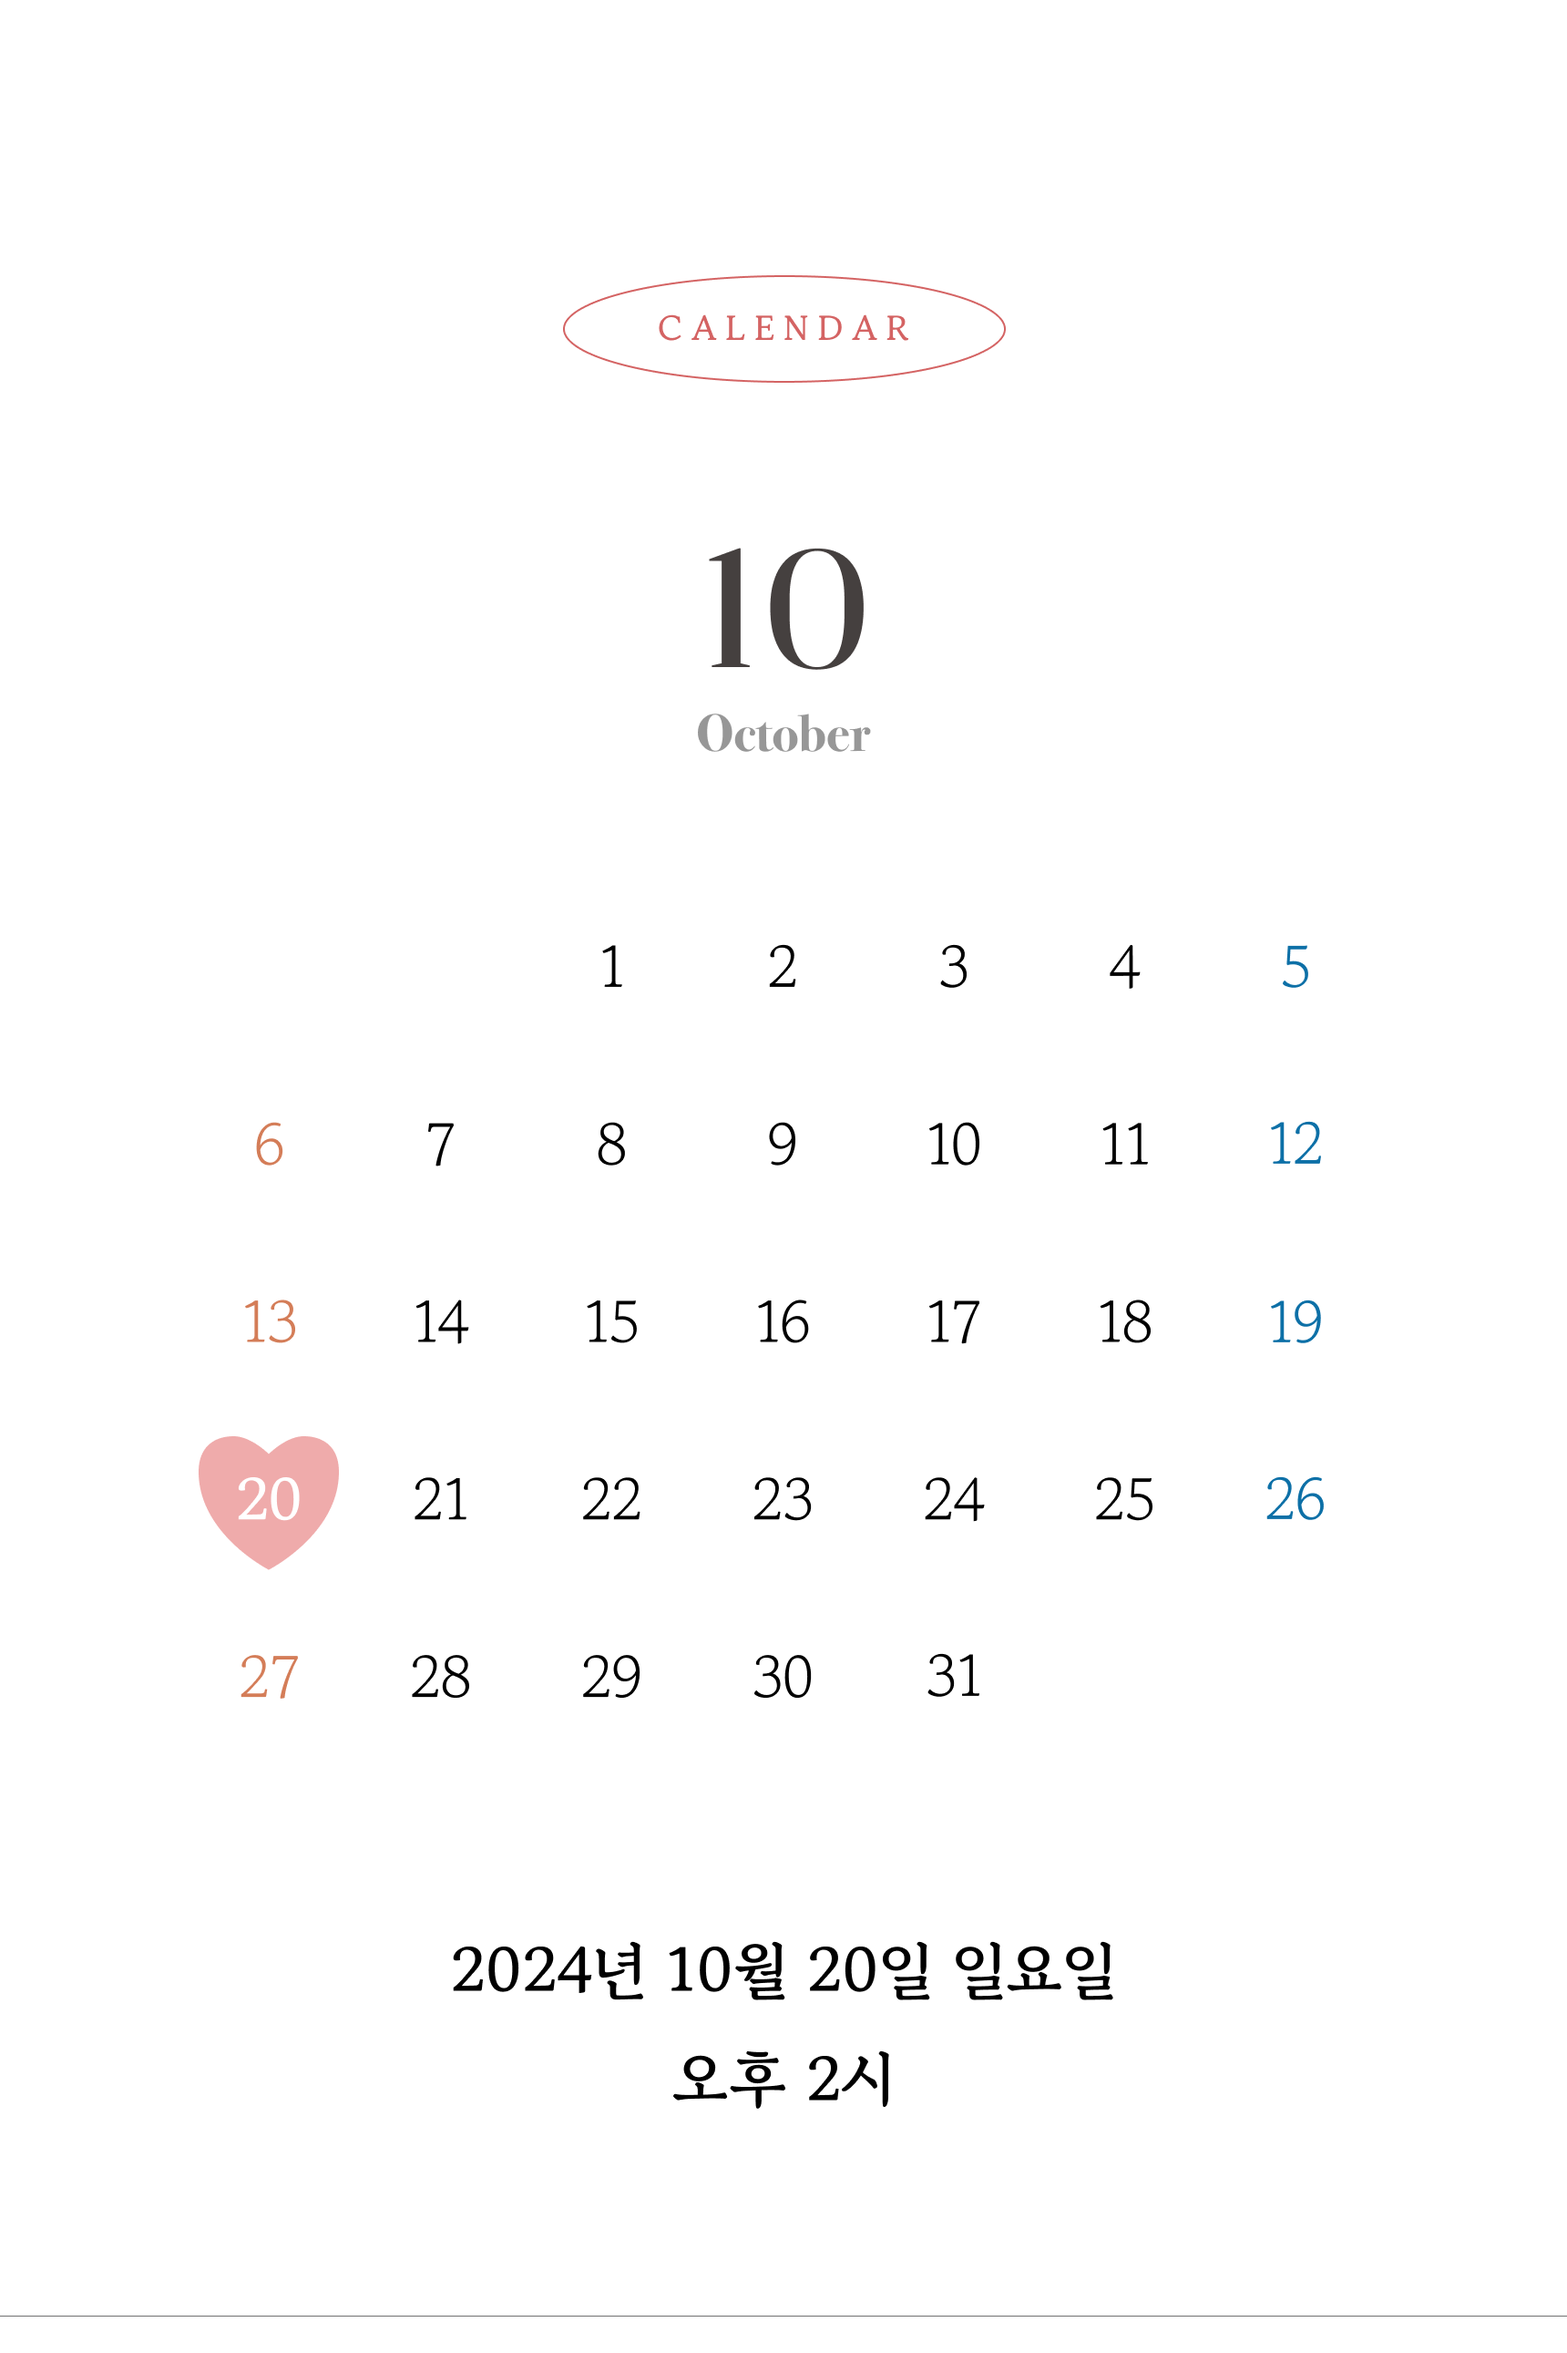
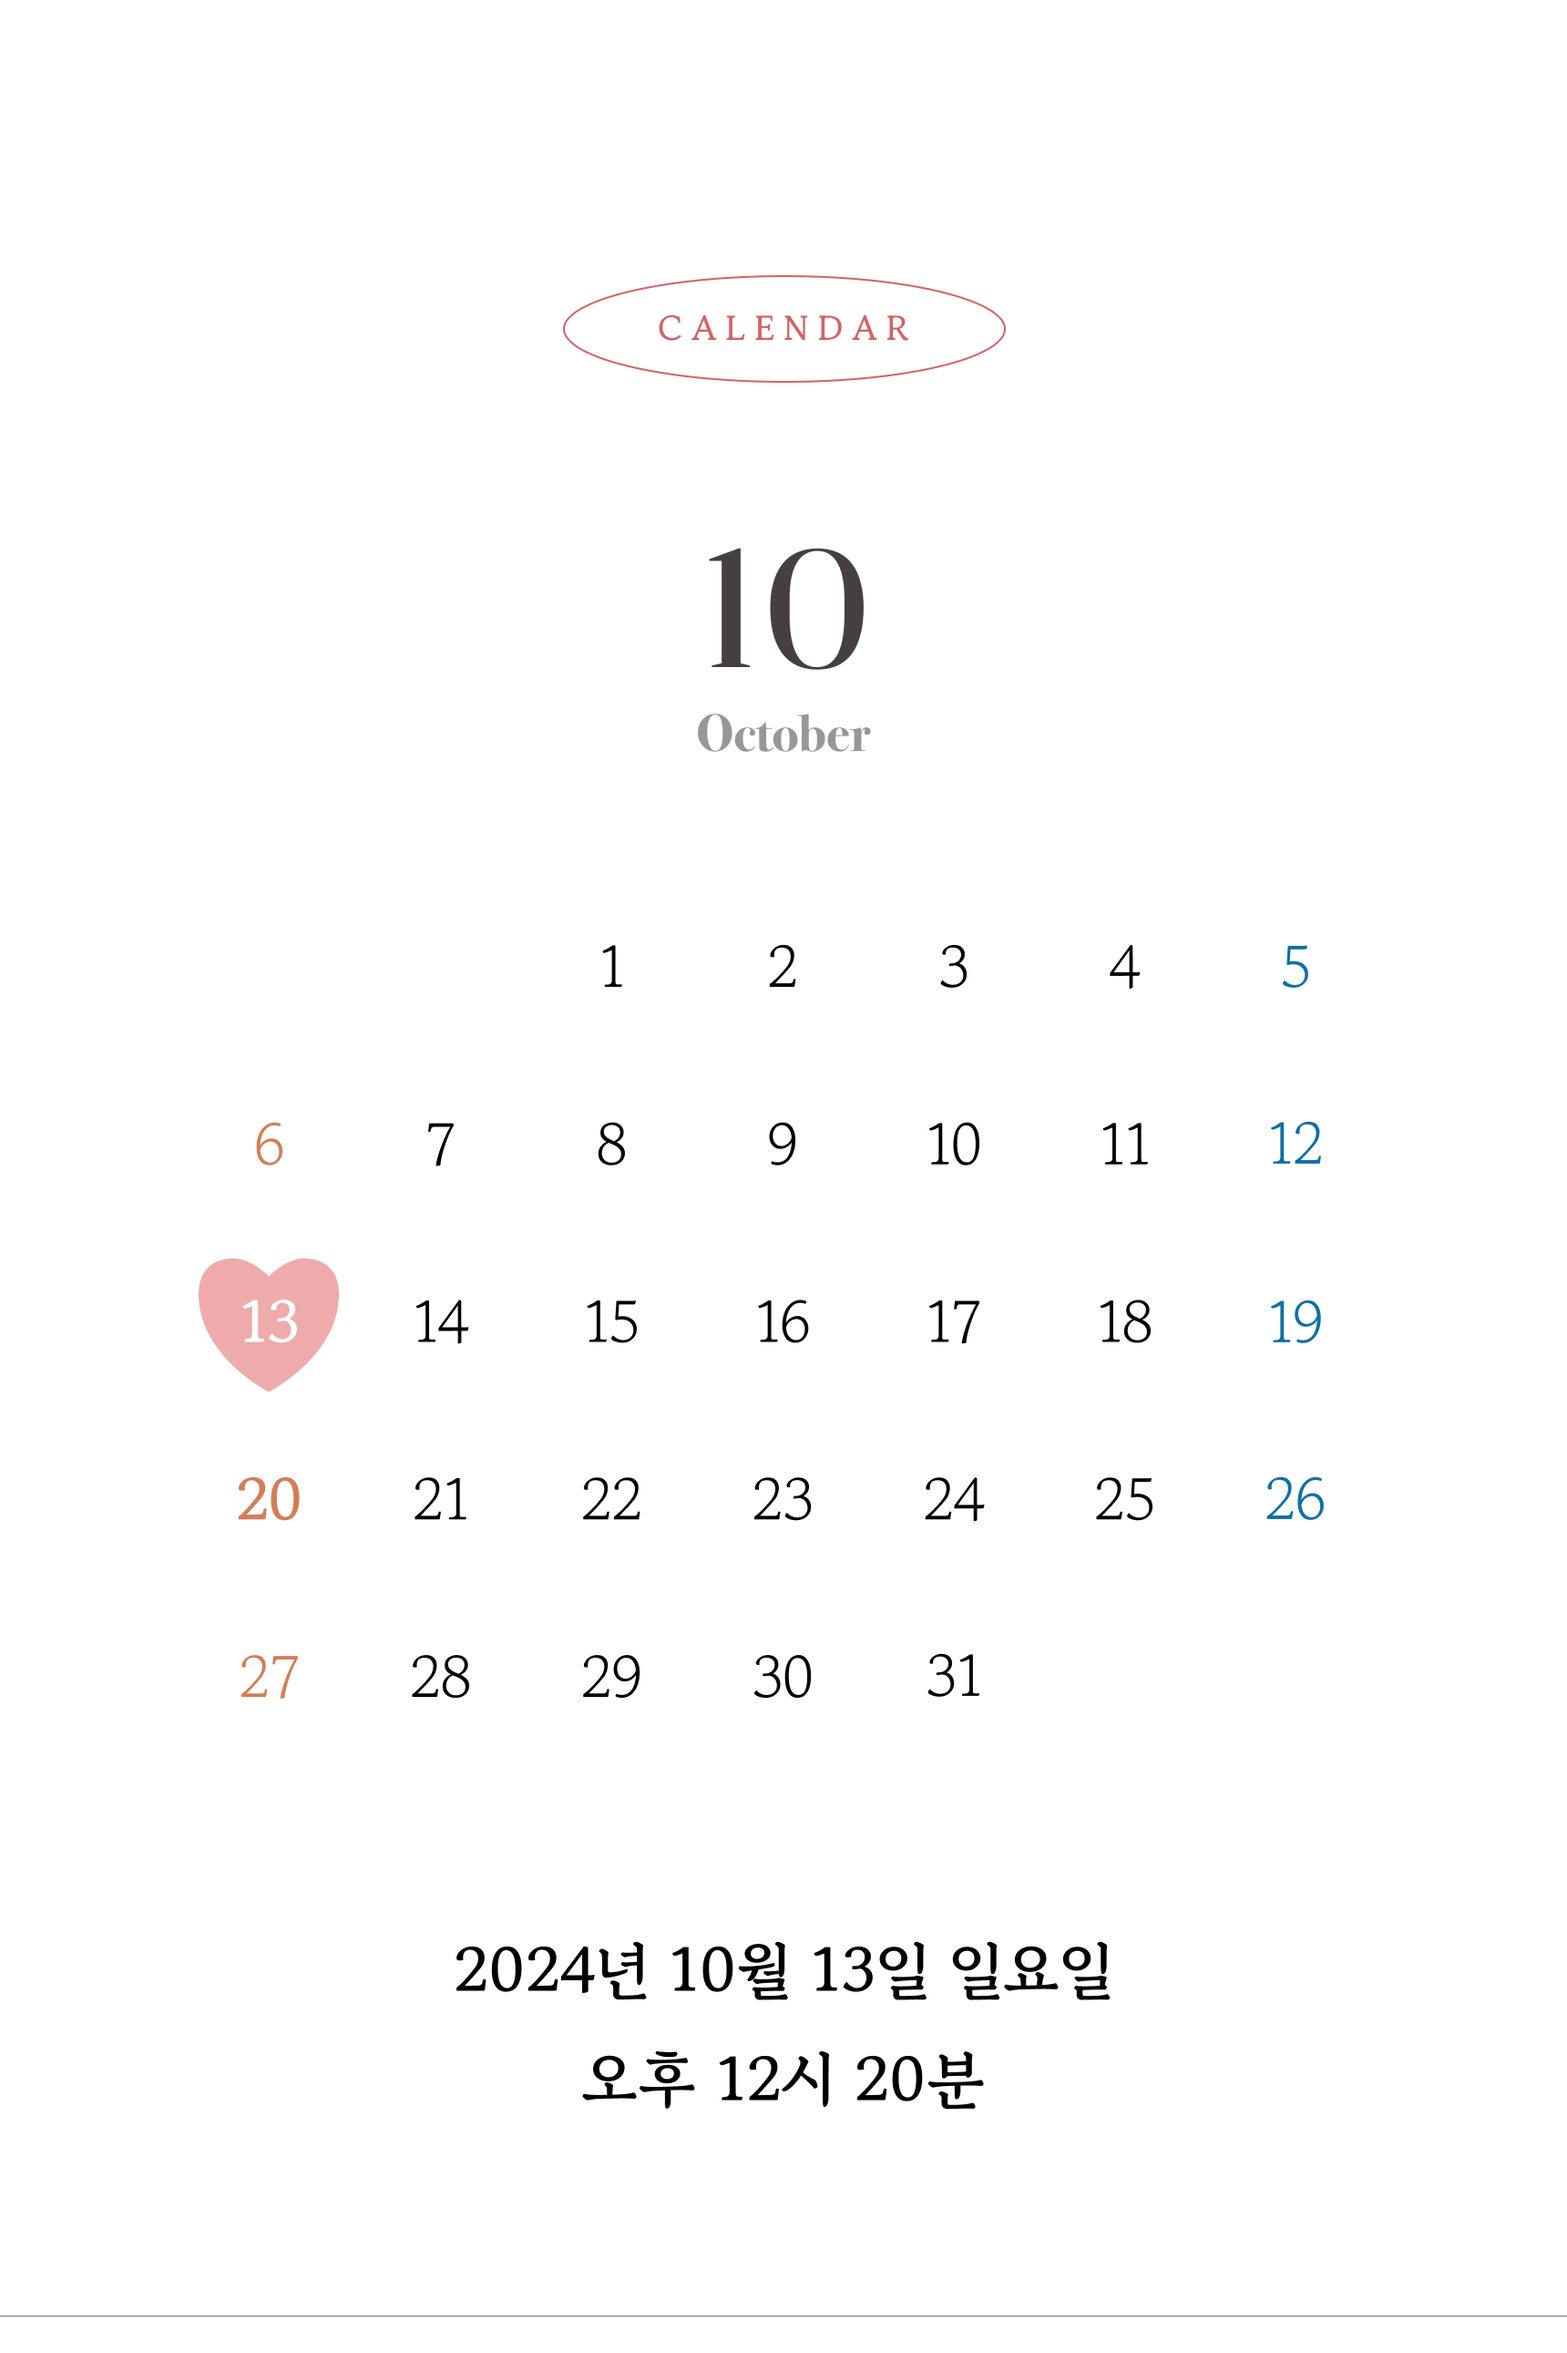
mo7 제작중

diff --git a/index.html b/index.html
@@ -98,29 +98,34 @@
               </div>
               <div id="dash"></div>
               <div id="coverdisc">
-                <p id="coverdiscInfo">함께 보내는</p>
+                <p id="coverdiscInfo">함께 있을 때</p>
                 <p id="coverdiscInfo">
-                  여덟 번째 가을의 아름다운 날
+                  가장 나다운 모습이 되게 하는 사람과
                 </p>
                 <p id="coverdiscInfo">
-                  평생을 함께하자, 약속하려 합니다.</p>
+                  앞으로의 모든 나날을 함께 하고자 합니다.</p>
                 <br />
-                <p id="coverdiscInfo">함께 나아갈 아름다운 여정</p>
+                <p id="coverdiscInfo">시월의 어느 가을날,</p>
                 <p id="coverdiscInfo">
-                  그 시작의 자리에 소중한 걸음 해주신다면 </p>
+                  늘 곁에서 아껴주었던 고마운 분들을 모십니다.</p>
                 <p id="coverdiscInfo">
-                  더없는 기쁨으로 간직하겠습니다.</p>
+                  저희 두 사람이 함께 나아갈 여정,</p>
+                <p id="coverdiscInfo">
+                  그 시작의 자리에 소중한 걸음 해주신다면</p>
+                  <p id="coverdiscInfo">
+                    더 없는 기쁨으로 간직하겠습니다.</p>
+                    
               </div>
               <div style="line-height: 40px; margin-top: 17%; margin-bottom: 17%">
                 <p id="parentInfo">
-                  <span style="font-size: large">이왕석 · 박언정</span>
+                  <span style="font-size: large">박길용 · 오금자</span>
                   <span>
                     <span>의</span>
                     <span style="
                           font-size: large;
                           min-width: 3rem;
                           display: inline-block;
-                        ">장남</span>
+                        ">아들</span>
                   </span>
                   <span style="font-size: large">박성권</span>
                   <span style="
@@ -137,18 +142,18 @@
                     document
                       .getElementById("man-call-button")
                       .addEventListener("click", function () {
-                        var phoneNumber = "010-9631-7331";
+                        var phoneNumber = "010-4087-7355";
                         window.location.href = "tel:" + phoneNumber;
                       });
                   </script>
                 </p>
                 <p id="parentInfo">
-                  <span style="font-size: large">윤창수 · 김성순</span>
+                  <span style="font-size: large">정성필 · 김미경</span>
                   <span>
                     <span>의</span>
                     <span style="
                           font-size: large;
-                          min-width: 2.6rem;
+                          min-width: 3rem;
                           display: inline-block;
                         ">딸</span>
                   </span>
@@ -167,7 +172,7 @@
                     document
                       .getElementById("woman-call-button")
                       .addEventListener("click", function () {
-                        var phoneNumber = "010-3708-5008";
+                        var phoneNumber = "010-4775-4664";
                         window.location.href = "tel:" + phoneNumber;
                       });
                   </script>
@@ -312,21 +317,21 @@
                     text-align: center;
                     line-height: 1.5rem;
                   ">
-                <p>서울특별시 강남구 강남대로 652</p>
+                <p>경상남도 창원시 성산구 원이대로 332</p>
                 <p style="font-weight: 600; color: #000000">
-                  더컨벤션 신사
+                  그랜드 머큐어 앰버서더 창원 "가든하우스"
                 </p>
               </div>
               <div class="weddinghall-call-info">
                 <button id="weddingHallCallButton">
                   <img src="img/call.png" alt="전화" style="width: 10px; height: 10px" />
-                  <p id="weddingHallCallP">02 - 6081 - 5000</p>
+                  <p id="weddingHallCallP">055 - 600 - 0700</p>
                 </button>
                 <script>
                   document
                     .getElementById("weddingHallCallButton")
                     .addEventListener("click", function () {
-                      var phoneNumber = "02-6081-5000";
+                      var phoneNumber = "055-600-0700";
                       window.location.href = "tel:" + phoneNumber;
                     });
                 </script>
@@ -343,8 +348,8 @@
             var mapContainer = document.getElementById("map"), // 지도를 표시할 div
               mapOption = {
                 center: new kakao.maps.LatLng(
-                  37.5195659036492,
-                  127.019091004701
+                  35.23897540922552,
+                  128.65512173208256
                 ), // 지도의 중심좌표
                 level: 3, // 지도의 확대 레벨
               };
@@ -364,8 +369,8 @@
 
             // 마커가 표시될 위치입니다
             var markerPosition = new kakao.maps.LatLng(
-              37.5195659036492,
-              127.019091004701
+              35.23897540922552,
+              128.65512173208256
             );
 
             // 마커를 생성합니다
@@ -441,8 +446,9 @@
             </button>
             <div class="panel">
               <ul>
-                <li><strong>신랑 박성권 : </strong>카카오뱅크 3333-02-1732894</li>
-                <li><strong>혼주 이왕석 : </strong>국민은행 110-243-041778</li>
+                <li><strong>신랑 박성권 : </strong>카카오뱅크 3333-02-6204801</li>
+                <li><strong>혼주 박길용 : </strong>농협은행 302-2278-7355-11</li>
+                <li><strong>혼주 오금자 : </strong>농협은행 302-1160-5513-91</li>
               </ul>
             </div>
             <button class="accordion relative">
@@ -451,8 +457,8 @@
             </button>
             <div class="panel">
               <ul>
-                <li><strong>신부 정지원 : </strong>카카오뱅크 3333-07-7433685</li>
-                <li><strong>혼주 윤창수 : </strong>우리은행 1002-241-996967</li>
+                <li><strong>신부 정지원 : </strong>카카오뱅크 823052-51-081712</li>
+                <li><strong>혼주 정성필 : </strong>농협은행 821110-52-066685</li>
 
                 <!-- <li>
                   <strong>신부 아버지</strong><br />농협 301819-52-029714

diff --git a/countdown.js b/countdown.js
@@ -1,7 +1,7 @@
 document.addEventListener("DOMContentLoaded", function () {
   function updateCountdown() {
     // 결혼 날짜 설정 (년, 월(0부터 시작), 일, 시, 분)
-    const weddingDate = new Date(2024, 9, 20, 14, 0); // 예시: 2024년 10월 12일
+    const weddingDate = new Date(2024, 9, 13, 12, 20); // 예시: 2024년 10월 12일
 
     const currentDate = new Date();
     const timeDifference = weddingDate - currentDate;
